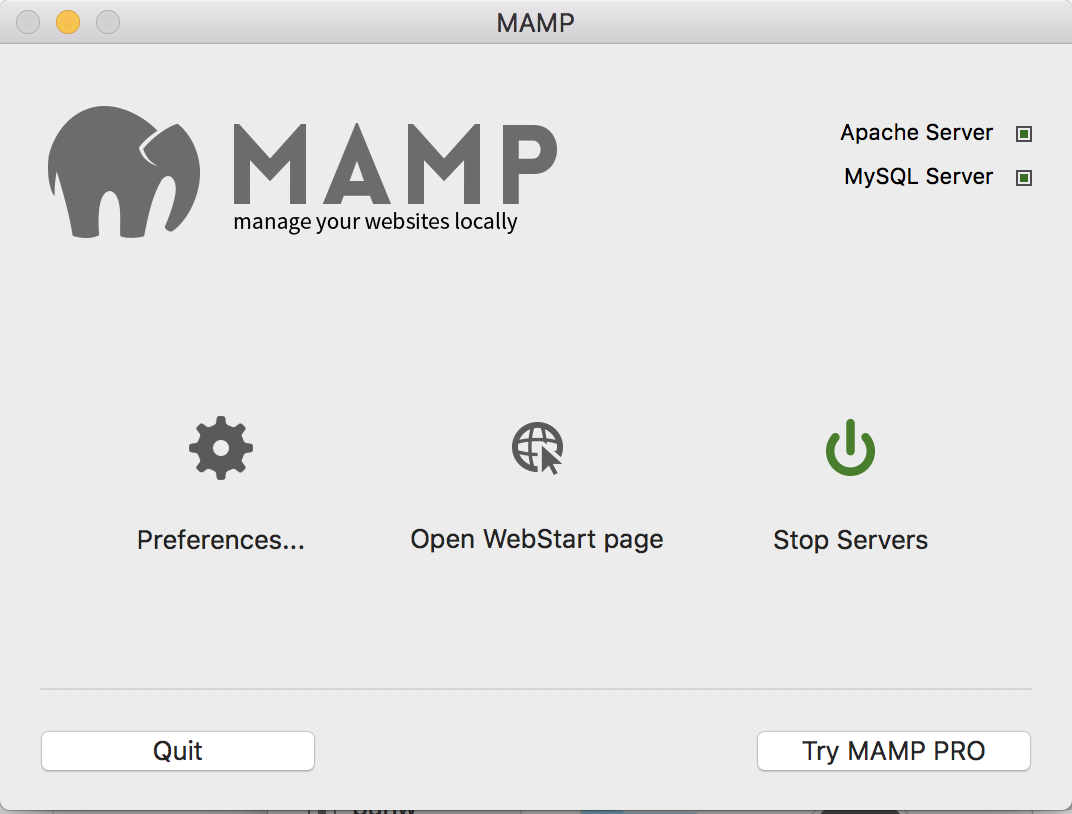
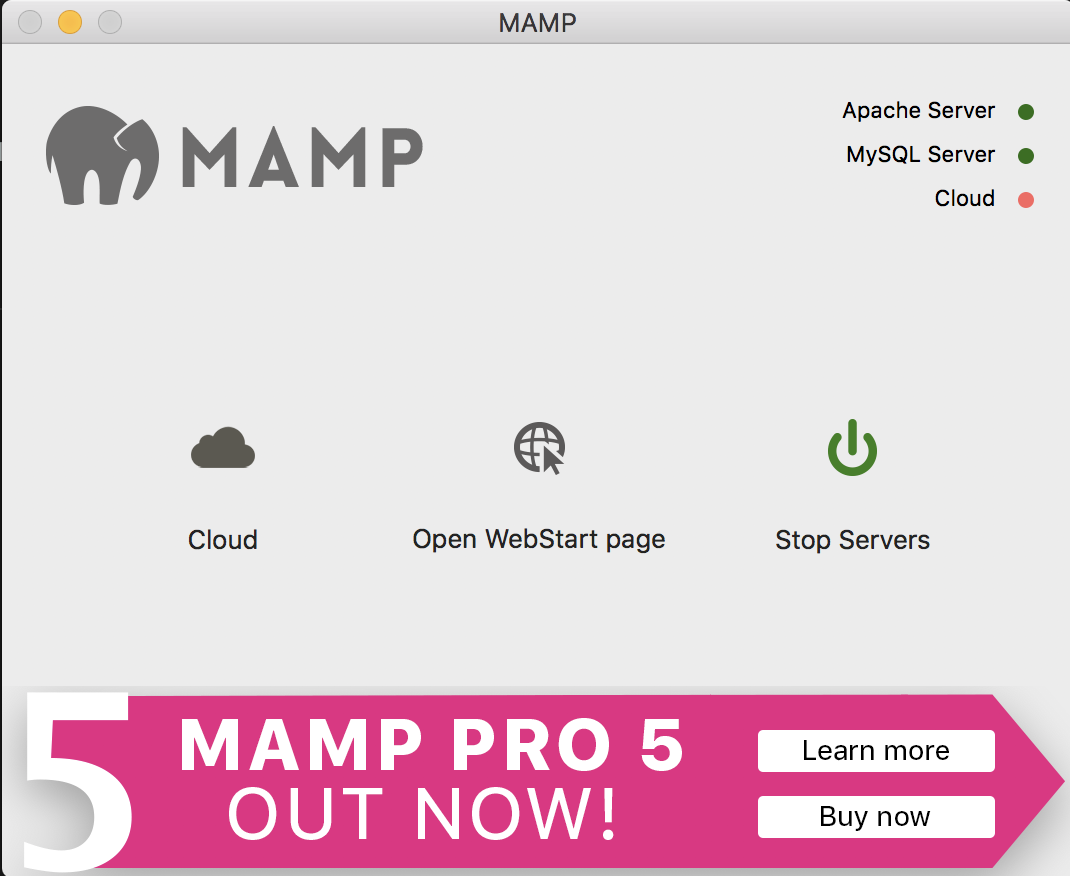
version fix

diff --git a/INSTALL.md b/INSTALL.md
@@ -17,6 +17,8 @@ Last Updated: March 28, 2017
 
 **[Windows Setup](#windows-setup)**
 
+**[Mac Setup With MAMP](#mac-setup-with-mamp)**
+
 ##  Overview of Directories
 
 NOTE: Most recent documentation can be found on the online documentation at [LibreHealth](http://librehealth.io/).
@@ -392,36 +394,34 @@ Launch XAMPP Control Panel and navigate to LibreEHR Setup in your browser: `\Lib
 
  **Once you see the screen above, you have successfully setup LibreEHR! Congratulations!**
 
-## On Mac With MAMP (For Local Testing)
-Apache can be used on Mac to install LibreHealth. However, if you have installation problems, you can use MAMP.
+## Mac Setup With MAMP
+Apache can be used on Mac to install LibreHealth. However, if you wish to use MAMP, it is also an option.
 
 #### Setup
-Install MAMP version 3.5.6 or under (Newer versions come with PHP 7.1 which is not compatible with LibreHealthEHR. If youdo install a newer version, make sure to use PHP versions under 7.1). You can find older versions.
 
-#### Note: PHP must not be version 7.1 or above. Version 7.0 and 5.6 can both be used.
+1. Download [MAMP](https://mamp.info/en/downloads/) version 5.1.
 
-Firstly, download [MAMP](https://mamp.info/en/) version 3.5.6. Currently, we do not support PHP versions 7.1. MAMP 3.5.6 comes with PHP 7.0 so you can use it without much configuration. Older Versions (including version 3.5.6) can be found [here](https://mamp.info/en/downloads/older-versions/)
-
-After Installation, the directory MAMP can be found in Applications. Go to Applications > MAMP and launch MAMP.app .
+2. After Installation, the directory MAMP can be found in Applications. Go to Applications > MAMP and launch MAMP.app .
 
  ![MAMPControl](./Documentation/1_Installing/images/MAMP/MAMP_Control.png)
 
- Now navigate to Preferences > Ports and change your Apache Port to 80 and MySQL port to 3306. This can be done by pressing 'Set Web and MySQL ports to 80 & 3306'.
+3. Now navigate to Preferences > Ports and change your Apache Port to 80 and MySQL port to 3306. This can be done by pressing 'Set Web and MySQL ports to 80 & 3306'.
+
+To launch preferences, navigate on the Mac menu bar to MAMP>Preferences
+
+ ![MAMPSettings](./Documentation/1_Installing/images/MAMP_installation/MACBAR.png)
 
  ![MAMPSettings](./Documentation/1_Installing/images/MAMP_installation/Settings.png)
-
- Finally, you should make sure that you have got the right PHP version.
+  
+Finally, you should make sure that you have got the right PHP version. (7.2.x Recommended but 7.1.x works fine)
 
  ![MAMPPHP](./Documentation/1_Installing/images/MAMP_installation/PHP.png)
 
- Version 5.6.10 is recommended but any version which is not 7.1 and newer is fine.
-
-2. To make sure the LibreHealthEHR functions properly, you will need to make some changes to your php.ini file. Different versions of php have different php.ini files.
-For PHP 7.0.8
-`/Applications/MAMP/conf/php7.0.8/php.ini`
-For PHP 5.6.10
-`/Applications/MAMP/conf/php5.6.10/php.ini`
-
+4. To make sure the LibreHealthEHR functions properly, you will need to make some changes to your php.ini file. Different versions of php have different php.ini files.
+For PHP 7.2.6
+`/Applications/MAMP/conf/php7.2.6/php.ini`
+For PHP 7.1.20
+`/Applications/MAMP/conf/php7.1.20/php.ini`
 *NOTE: If you installed MAMP somewhere else, you will have to replace /Applications/MAMP with your location of MAMP*
 
 Make the following changes in your php.ini file to ensure that LibreHealthEHR functions properly:
@@ -441,30 +441,27 @@ upload_tmp_dir is set to a correct default value that will work on your system
 error_reporting = E_ALL & ~E_DEPRECATED & ~E_STRICT & ~E_NOTICE
 ```
 
-3. Make sure you have disabled strict mode in MySQL.
+5. Make sure you have disabled strict mode in MySQL.
 
 To make sure that strict mode is disabled in MySQL. Start your MAMP server and go to http://localhost/phpmyadmin/
-
+Go to the Variables heading by navigating through More > Variables. Now find *sql mode* and make sure that it is set to "". To edit the variable, click the edit button next to the name of the variable.
 *NOTE: If you are not using port 80, you have go to http://localhost:YOUR_PORT/phpmyadmin/ instead.*
 
  ![Strict](./Documentation/1_Installing/images/MAMP_installation/Variable.png)
 
-Go to the Variables heading by navigating through More > Variables. Now find *sql mode* and make sure that it is set to "".
+6. Start MAMP server
 
-4. Start MAMP server
-
-Fork the LibreHealthEHR [repository](https://github.com/LibreHealthIO/librehealthehr).
+7. Fork the LibreHealthEHR [repository](https://github.com/LibreHealthIO/librehealthehr).
 
 Clone the forked repository to a local directory with:
-`git clone https://github.com/your-username/lh-ehr.git` As you are using MAMP, you have to clone the repository to htdocs (The files in htdocs will be served in the MAMP server)
+`git clone https://github.com/your-username/lh-ehr.git` As you are using MAMP, you have to clone the repository to *htdocs* (The files in htdocs will be served in the MAMP server). *htdocs* can be found in.
 `YOUR_MAMP_LOCATION/htdocs`
 
-#### Step 1
+#### Installation
 Launch MAMP Control Panel and start your server.
 
 Go to the LibreEHR Setup page in your browser: `localhost/librehealthehr/setup.php` (Make sure that you are on the right port, this can be found in the preference of your MAMP)
 
-#### Step 2
  Leave default as the "Site ID:" and press continue.
 
  ![First Step](./Documentation/1_Installing/images/windows_installation/Step_1.png)
@@ -477,7 +474,7 @@ Go to the LibreEHR Setup page in your browser: `localhost/librehealthehr/setup.p
 
  ![Third Step](./Documentation/1_Installing/images/windows_installation/Step_3.png)
 
- For the fourth step, enter a "Password" and "Initial User Password" you are free to change, the "Initial User" to your own username, but for convenience you can also leave it as admin. Also, you will have to change the Server and MySQL port to the ones that MAMP is currently using. (You can find this in the preferences of the MAMP Control Panel).
+ For the fourth step, enter a "Password" and "Initial User Password" you are free to change, the "Initial User" to your own username, but for convenience you can also leave it as admin. Also, you will have to change the MySQL port to the one that MAMP is currently using. (You can find this in the preferences of the MAMP Control Panel).
 
  Then press continue.
 **Note:** If you do change your password, or even if you don't, write down your username and password. You will need it for future uses.
